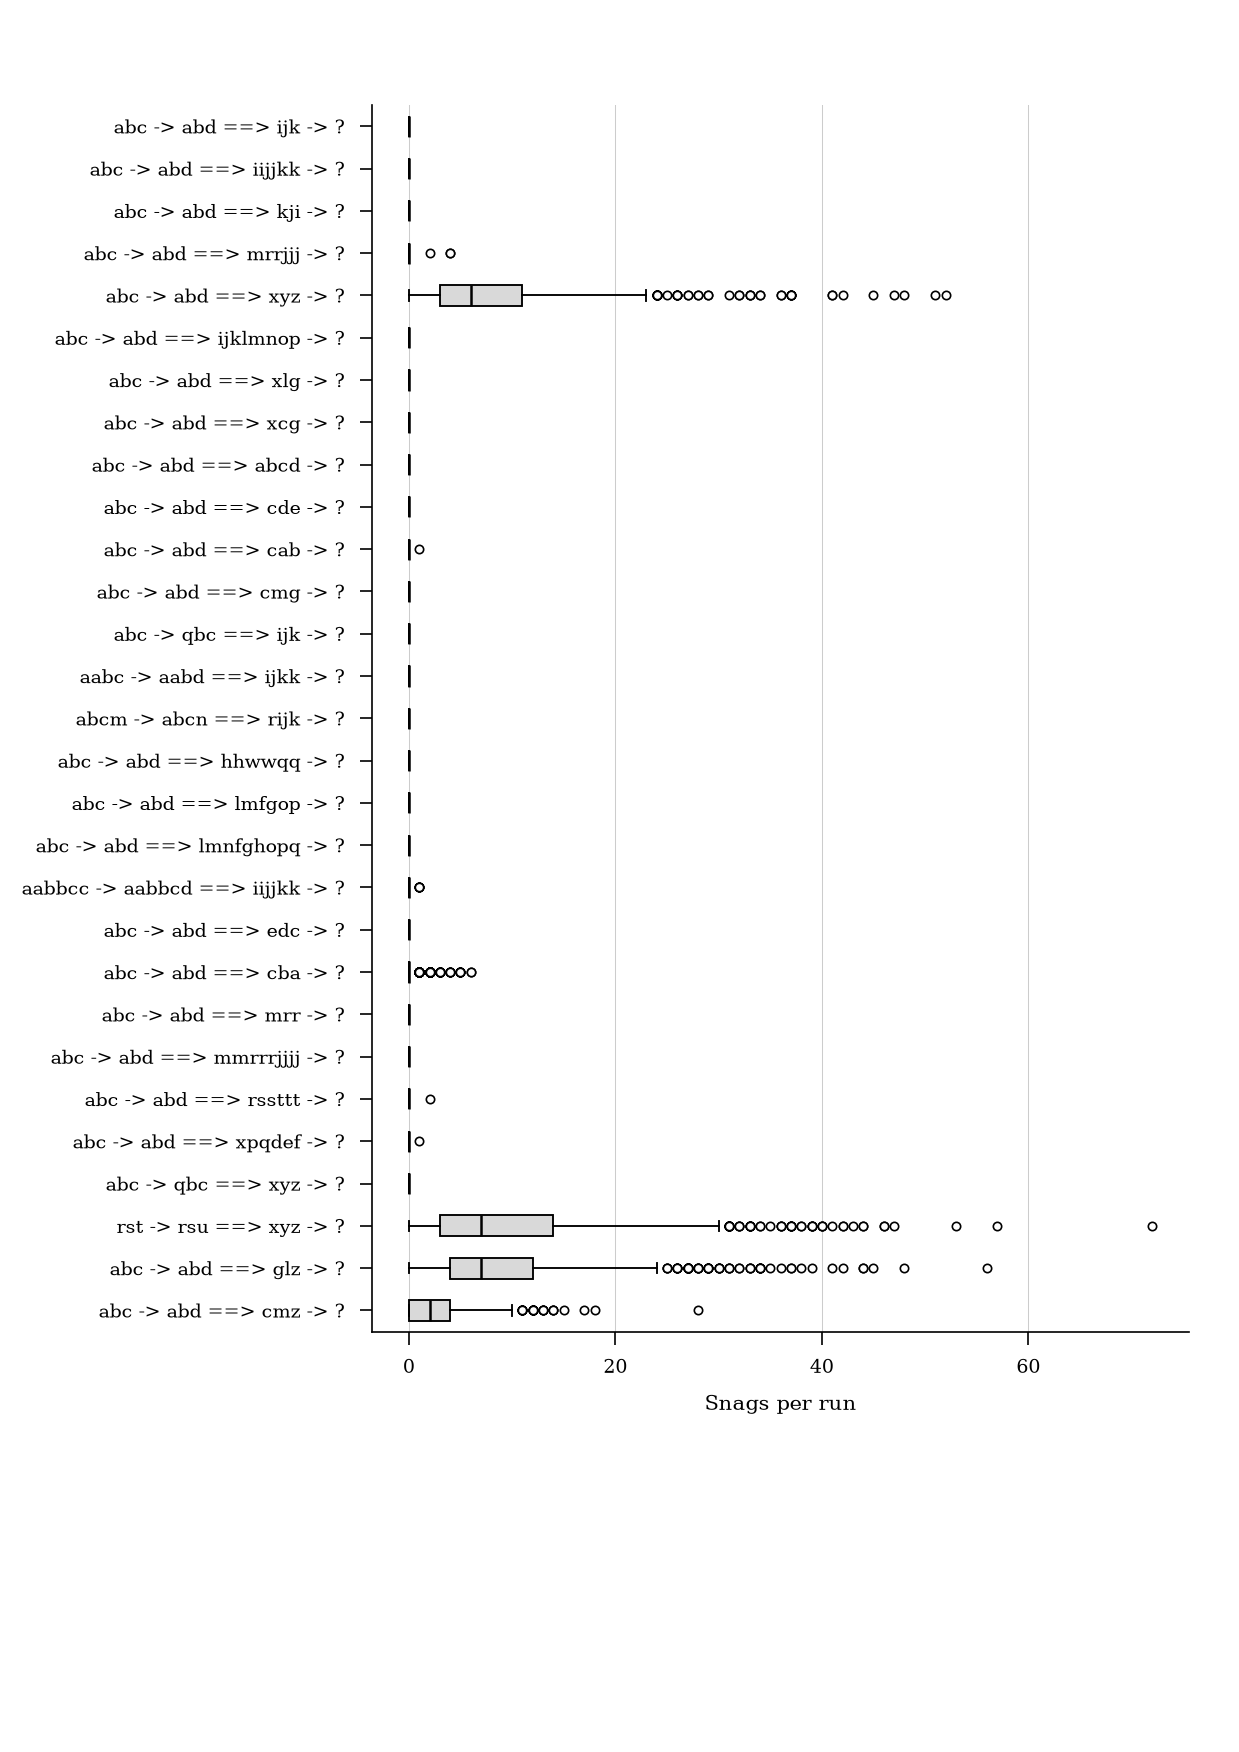
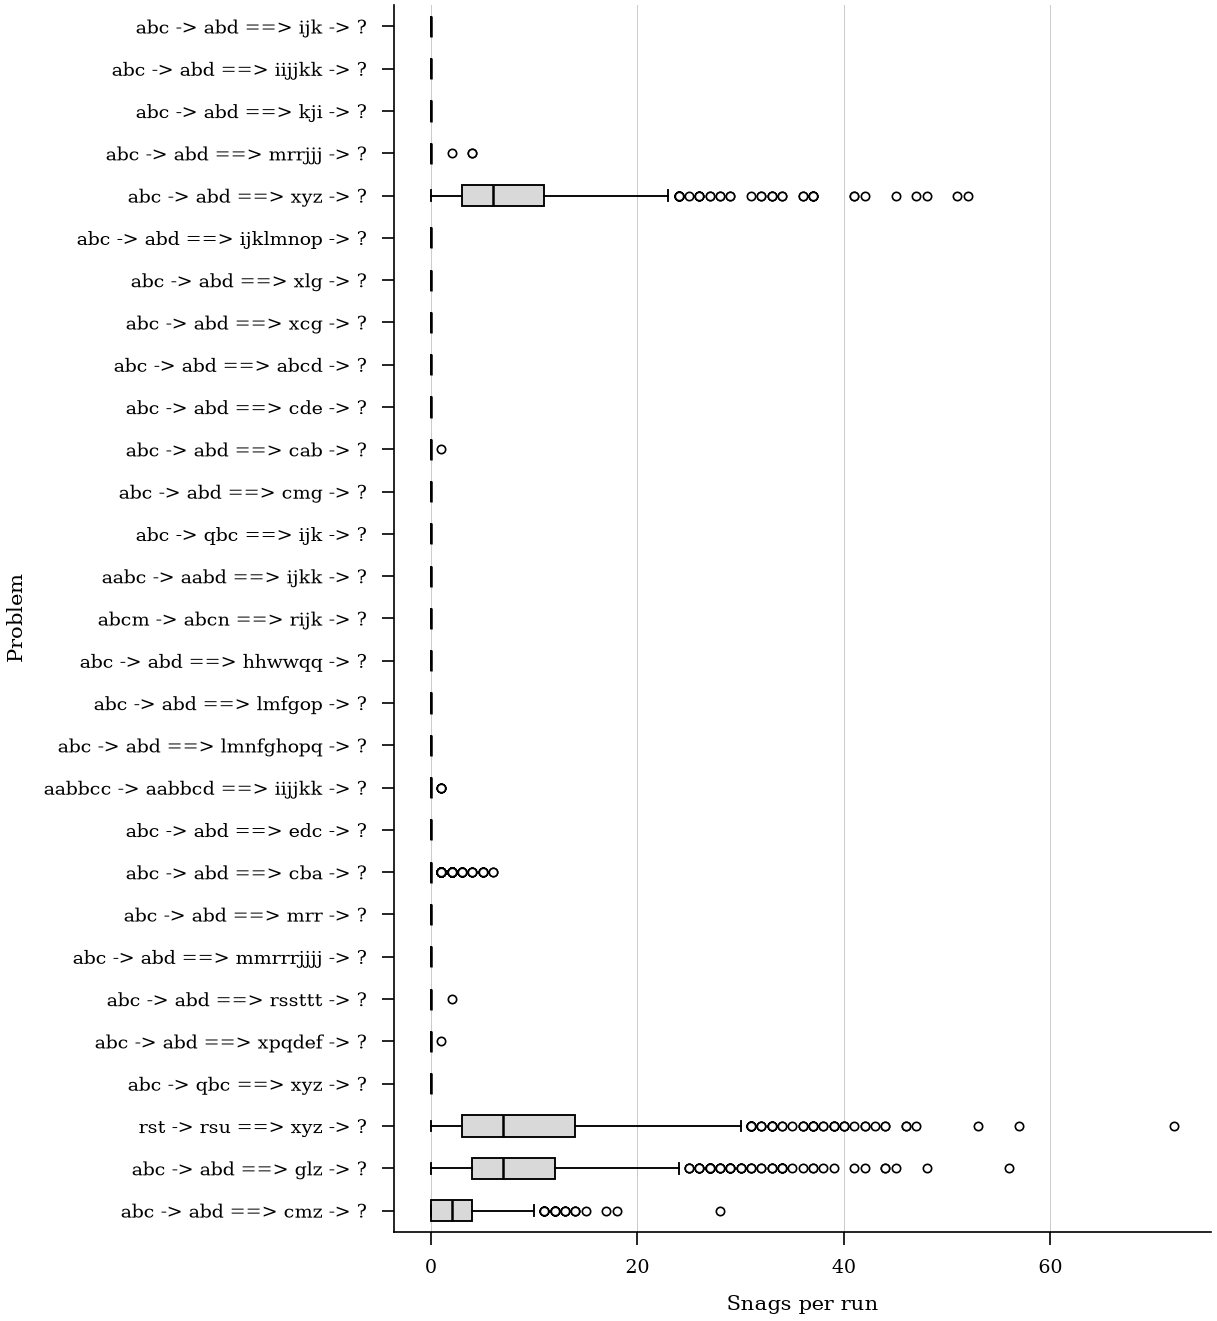
trim padding from figure

diff --git a/experiments/copycat-reproduction/copycat_reproduction/figure_helpers.py b/experiments/copycat-reproduction/copycat_reproduction/figure_helpers.py
@@ -190,7 +190,10 @@ def _save_problem_snag_count_figure(
     _style_axis(axis)
     figure.subplots_adjust(left=0.30, right=0.96, bottom=0.24, top=0.94)
     figure.savefig(
-        FIGURES / f"{filename_prefix}all_problems-snag-count.png", dpi=300
+        FIGURES / f"{filename_prefix}all_problems-snag-count.png",
+        dpi=300,
+        bbox_inches="tight",
+        pad_inches=0.02,
     )
     plt.close(figure)
 
